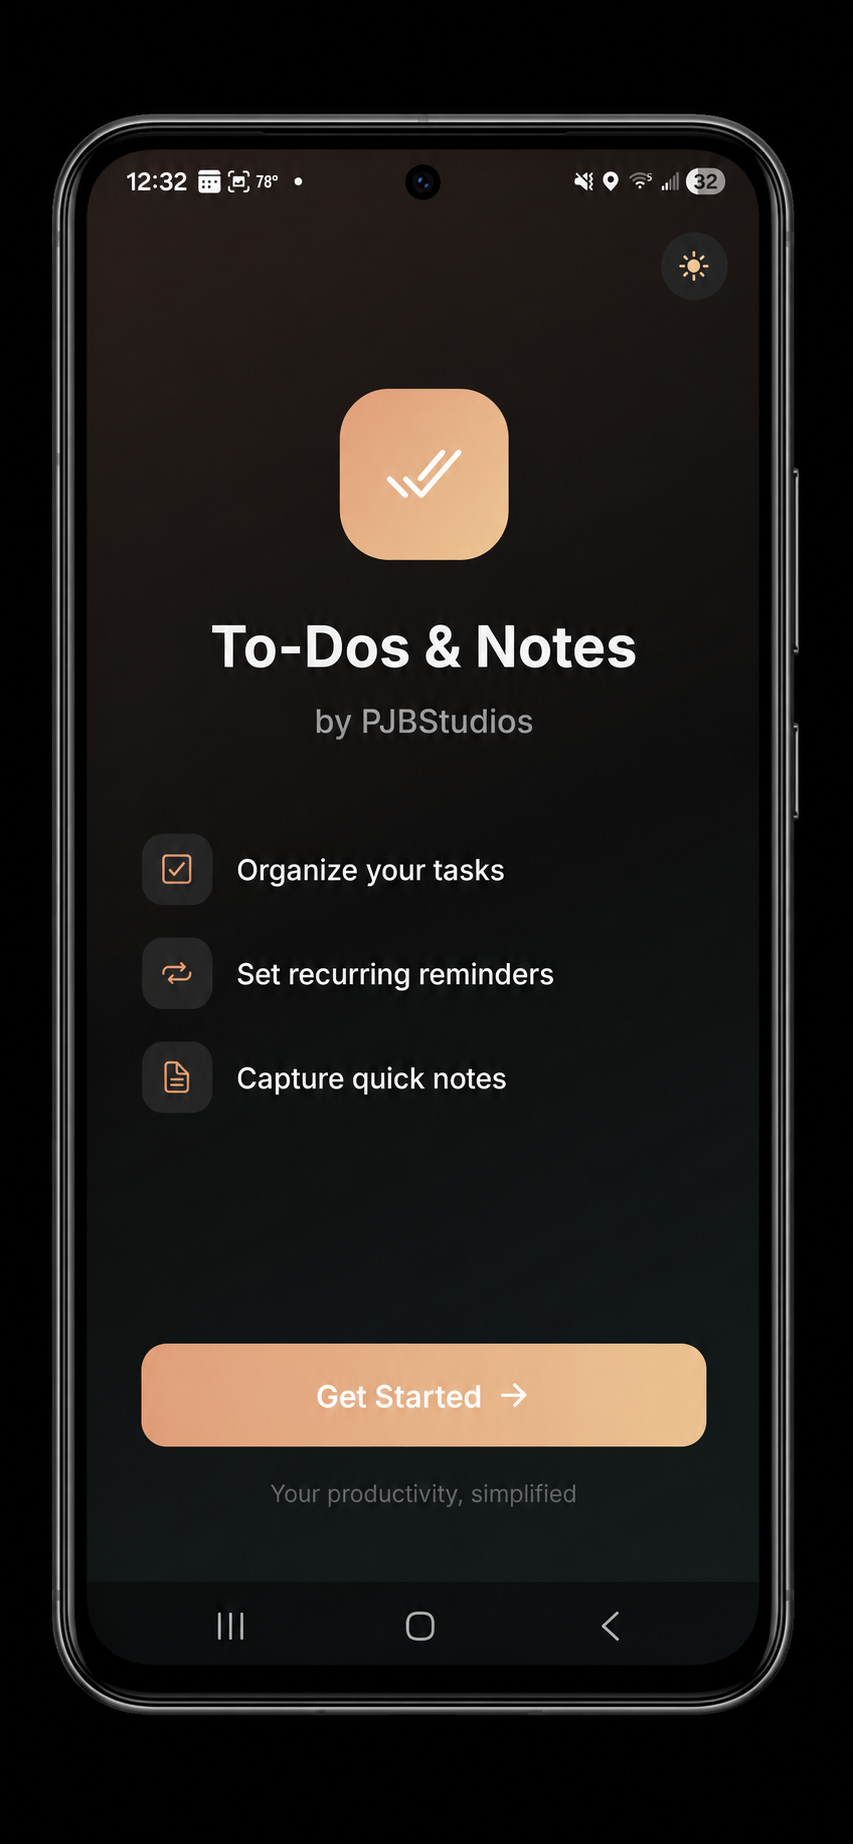
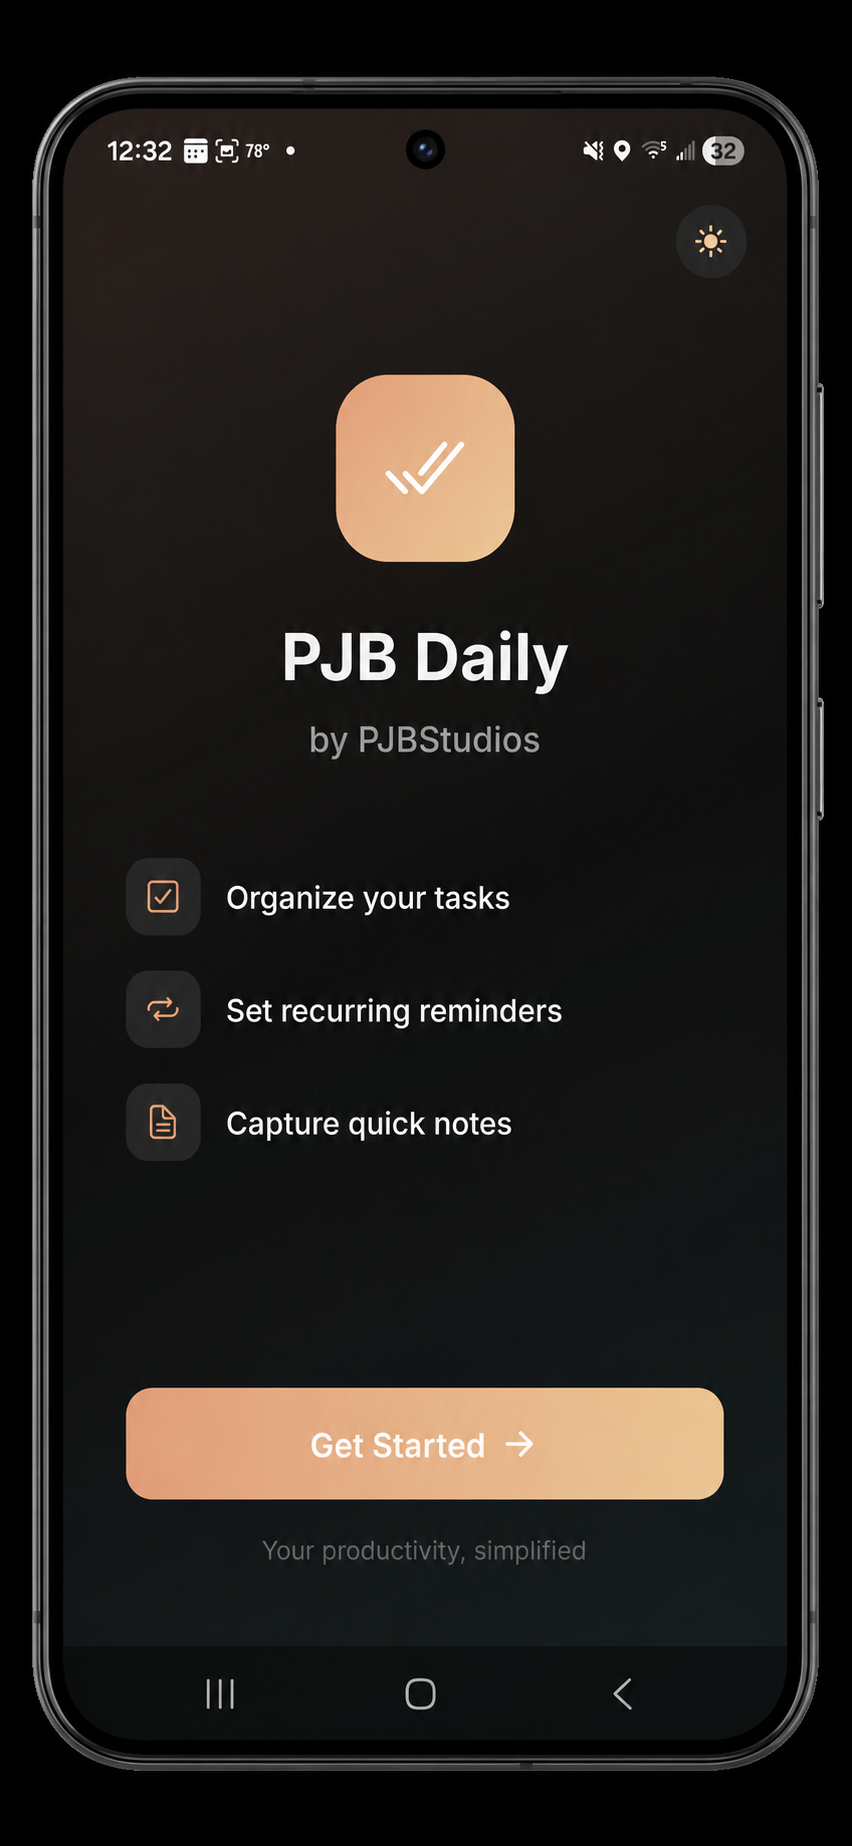
feat: complete PJB Daily product page and marketing assets

diff --git a/src/app/projects/pjb-daily/page.tsx b/src/app/projects/pjb-daily/page.tsx
@@ -160,8 +160,8 @@ const galleryItems = [
       "A polished, comfortable experience designed for both light and dark environments.",
     alt: "PJB Daily Dark Mode screen",
     assetPath: "/images/projects/pjb-daily/dark-mode.png",
-    width: 853,
-    height: 1844,
+    width: 852,
+    height: 1846,
     available: true,
     order: 7,
   },